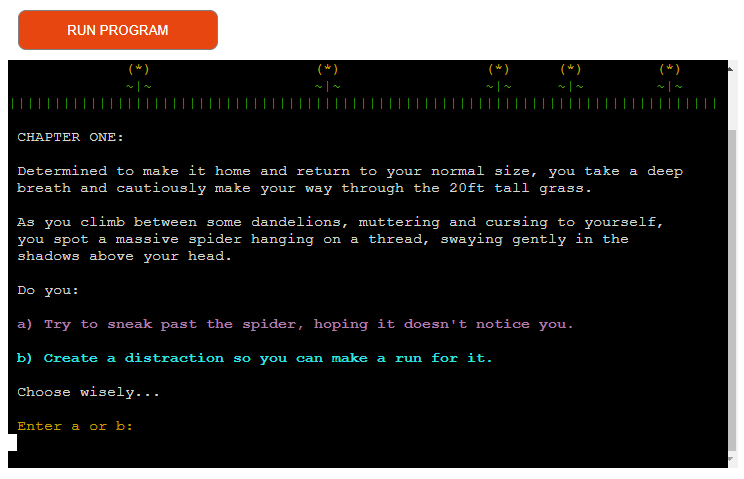
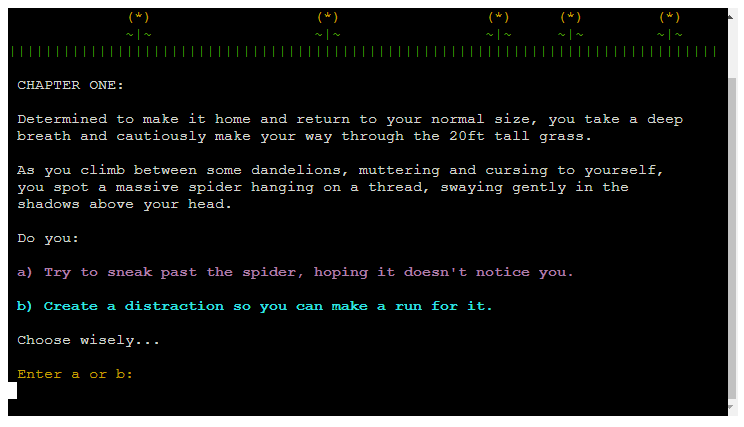
Docs: Crop images to remove 'Run Program' button

diff --git a/README.md b/README.md
@@ -15,6 +15,7 @@ The live site can be found here: https://garden-escape-185db543c454.herokuapp.co
 
 ## Features
 
+
 ### Game Title (title.py)
 
 ![Screenshot of title on desktop](docs/readme-images/title.png)
@@ -25,7 +26,7 @@ The live site can be found here: https://garden-escape-185db543c454.herokuapp.co
 - Colour red used to indicate danger and risk
 - 'Honey I Shrunk the Coder!' in default font, but with spacing between letters to stand out from regular text and appear larger to work visually alongside main title text.
 - 'Garden Escape' text created using [pyfiglet 1.0.2](https://pypi.org/project/pyfiglet/) library imported from Python Package Index (PyPI) with ['slant'](http://www.figlet.org/examples.html) font. 
-- Red text colour created using [Colorama 0.4.6](https://pypi.org/project/colorama/) library imported from PyPI.
+- Red colour text output created using [Colorama 0.4.6](https://pypi.org/project/colorama/) library imported from PyPI.
 
 ***ASCII Art***
 
@@ -40,6 +41,7 @@ The live site can be found here: https://garden-escape-185db543c454.herokuapp.co
 - The name must be at least 1 character long, but less than 16 characters so it fits in the final congratulations window at the end of the story.
 - The entered name is passed through validation function validate_player_name() and if it does not pass validation then an error message is displayed to the player with a prompt to try again.
 - The error message is displayed in red text to highlight that there is problem that needs attention.
+
 
 ### Introduction
 
@@ -61,7 +63,8 @@ The live site can be found here: https://garden-escape-185db543c454.herokuapp.co
 - This reinforces the connection with the player and builds tension.
 - There is no validation for this input as it is not used in any other part of the program
 
-### Chapter 1 - Spider Story
+
+### CHAPTER ONE - Spider Story
 
 ![Screenshot of Spider introduction with story options](docs/readme-images/spider-story.png)
 
@@ -74,11 +77,11 @@ The live site can be found here: https://garden-escape-185db543c454.herokuapp.co
 
 - Two options are displayed for the player to choose from. Each option will determine a different narrative direction for the next part of the story.
 - The display_spider_story() function extracts the two options (SPIDER_OPTION_A and SPIDER_OPTION_B) from story_text.py
-- Displayed to the player in two different colours so they stand out from the usual story text.
+- The options are displayed to the player in two different colours so they stand out from the usual story text.
 
 ***Story Choice: input()***
 
-- Below the two options the get_story_choice() function prompts the user to make a selection from the two options (a or b) and enter their choice of a or b.
+- Below the two options the get_story_choice() function prompts the user to make a selection from the two options and enter a or b.
 - The entered choice is passed through validation function validate_story_choice() to check that they have entered either 'a' or 'b'. If it doesn't pass validation then an error message is displayed to the player with a prompt to try again.
 - The error message is displayed in red text to highlight that there is problem that needs attention.
 
@@ -87,7 +90,9 @@ The live site can be found here: https://garden-escape-185db543c454.herokuapp.co
 ***Display Spider Story Choices***
 
 - The display_spider_story_choices() function uses an if/else statement to define which code to run and story text to extract from story_text.py according to the choice of a or b made by the player.
--  Both outcomes will run the spider_ascii() function from spider.py to display the spider ascii art alongside the relevant story text for either a or b chosen by the player.
+-  Both outcomes will run the spider_ascii() function from spider.py which displays the spider ascii art alongside the relevant narrative text for either a or b chosen by the player.
+- For both option choices, the progress_prompt() function is imported from progress_prompt.py to ask the player to "Press enter to continue..." when they are ready.
+- This function allows the player to move through each 'page' of the story at their own pace and does not require any validation as the input is not used anywhere else.
 
 ![Screenshot of spider ascii art with result of story choice](docs/readme-images/spider-ascii.png)
 
@@ -97,10 +102,12 @@ The live site can be found here: https://garden-escape-185db543c454.herokuapp.co
 - The display_nested_spider_choices() function extracts the NESTED_SPIDER_OPTIONS_TEXT from story_text.py and displays this on the terminal along with the two nested options a and b for the player to select between.
 - Options are displayed to the player in two different colours so they stand out from the usual story text.
 - Following the same process outlined above, the get_story_choice() function prompts the player to select either a or b and their choice input is validated via validate_story_choice().
+- The progress_prompt() function is imported from progress_prompt.py to ask the player to "Press enter to continue..." when they are ready.
 
 ![Screenshot of Nested Spider Options](docs/readme-images/nested-spider-options.png)
 
-### Chapter Two - Centipede Story
+
+### CHAPTER TWO - Centipede Story
 
 ***Story Text***
 
